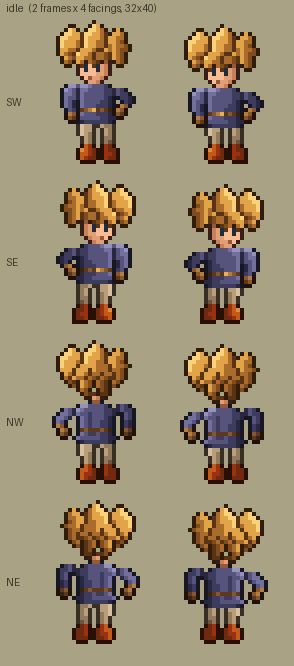
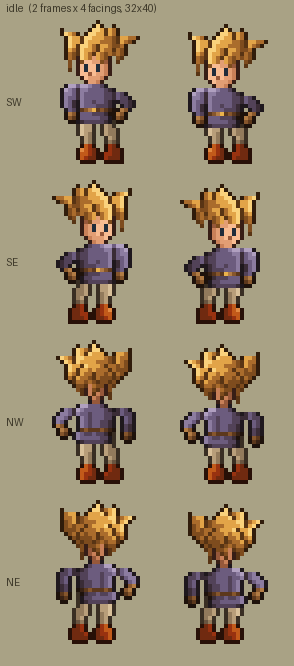
Adopt competition winner: spike-cluster hair, contrapposto, warm tunic ramp
Blind judge picked the cluster-by-cluster rebuild (6/10 vs reference,
up from 5.5): 9 documented wedge clusters with varied tip angles,
structured back-of-head spikes with visible neck, 9-row face with
readable eyes, 1px shoulder drop and weight-leg stance, sepia-shadow
tunic ramp.

Claude-Session: https://claude.ai/code/session_016NrdnBjWDk4MeLoS3YwAx8

diff --git a/tools/sprites/composer.py b/tools/sprites/composer.py
@@ -93,50 +93,71 @@ DEFAULT_SPEC = CharacterSpec()
 
 PARTS = {
     "front": {
+        # FRONT HAIR -- 9 explicit wedge clusters (frame coords, col = x-6):
+        #   C1 crown spike   base (13-17,4)  tip (16,0)   vertical, leans right
+        #   C2 left spike    base ( 9-11,5)  tip ( 7,2)   45 deg up-left
+        #   C3 right low     base (20-22,5)  tip (25,4)   near-horizontal right
+        #   C4 right small   base (18-19,3)  tip (20,1)   short jab upward
+        #   C5 fringe L      base y6         tip (12,10)  points down over brow
+        #   C6 fringe M      base y6         tip (15, 9)  shortest notch
+        #   C7 fringe R      base y6         tip (17,10)  sweeps to temple x19
+        #   C8 side lock L   (9-10, 6)       tip ( 9,12)  LONG lock by the ear
+        #   C9 side lock R   (20-21,6)       tip (20,10)  short -- unequal to C8
+        # Silhouette tips land at y0/y1/y2/y4: four different heights, one
+        # spike on the left vs two on the right = deliberate asymmetry.
+        # Each wedge: 8 highlight upper-left face, 7/6 body, 5 shade,
+        # '4' seam only along cluster boundaries (diagonal, staggered).
         "hair": {
             "anchor": (6, 0),
             "grid": [
-                ".........o.........",
-                "...oo...o87o.......",
-                "..o87o.o8876o.o7o..",
-                ".o88774887764o776o.",
-                "o8877748777647766o.",
-                "o87776487766477650.".replace("0", "o"),
-                "o877764877664676650".replace("0", "o"),
-                "o77664777644767655o",
-                "o7654877646654765o.",
-                ".o765776646654765o.",
-                ".o65o76o654o..o65o.",
-                "..oo..4..4.....oo..",
+                "..........o..........",  # y0  C1 tip
+                ".........o8o..o......",  # y1  C1 neck; C4 tip
+                ".o......o887476o.....",  # y2  C2 tip; C1 body; C4 wedge
+                ".o876o.o8877476o.....",  # y3  C2 wedge / gap / C1+C4
+                "..o87748877766547766o",  # y4  C2 base; crown; C3 spike->tip
+                "..o8774877766654765o.",  # y5  crown full; C3 base
+                "..o87488764776 56o...".replace(" ", "5"),  # y6 locks+fringe
+                "..o76487764766465o...",  # y7  fringe solid over brow
+                "..o65487647656565o...",  # y8  fringe solid, shade lower
+                "..o65.876.765..54....",  # y9  1px notch gaps open
+                "...5..5....5...4.....",  # y10 C5/C7/C9 tips touch brow
+                "...5.................",  # y11 C8 continues alone
+                "...4.................",  # y12 C8 tip (longest lock)
             ],
         },
+        # Face: full-height FFT face -- hairline shadow row, two bright brow
+        # rows, then 2x2 dark eyes on bright 9-skin, two jaw rows to a chin.
         "head": {
-            "anchor": (11, 8),
+            "anchor": (11, 7),
             "grid": [
+                "o9999321o",
                 "o1111111o",
-                "o9933321o",
+                "o9993321o",
                 "o9993321o",
                 "o9x99x32o",
                 "o9x99x32o",
-                "o9999332o",
-                ".o91332o.",
+                "o9919332o",
+                ".o93332o.",
                 "..o332o..",
             ],
         },
+        # contrapposto: screen-left shoulder caps a row early (right sits
+        # 1px lower), and below the belt the hips swing 1px toward the
+        # screen-left weight leg
         "torso": {
             "anchor": (10, 15),
             "grid": [
                 "....o22o....",
-                ".occCBBBAo..",
-                "ocCCBBBBAAao",
+                ".occCBBAo...",
+                "ocCCBBBBAao.",
                 "oCCBBBBBAAao",
-                ".oCBBBBBAao.",
-                ".oCBBBBAAao.",
+                ".oCBBBBBAAo.",
+                ".oCBBABBAao.",
                 ".oCBBBAAAao.",
                 ".oSTULSTSso.",
-                ".oCBBBAAAao.",
-                "oCBBBBBAAaao",
-                ".oaAAAAAAao.",
+                "oCBBBAAAao..",
+                "oCBBBBBAAo..",
+                ".oaAAAAAao..",
             ],
         },
         # near arm: hangs relaxed, soft elbow bend, glove fist by the thigh.
@@ -156,9 +177,10 @@ PARTS = {
                 "..oo..",
             ],
         },
-        # far arm: akimbo, elbow out, fist planted on the hip
+        # far arm: akimbo, elbow out, fist planted on the hip (hangs off the
+        # lowered screen-right shoulder, hence 1 row below arm_near)
         "arm_far": {
-            "anchor": (20, 17),
+            "anchor": (20, 18),
             "grid": [
                 "aBAo..",
                 "aBAAo.",
@@ -188,70 +210,85 @@ PARTS = {
                 ".oooo.",
             ],
         },
+        # relaxed leg: knee tucks 1px inward, shin angles back out, foot
+        # planted a shade wider -- the counterpose to the straight near leg
         "leg_far": {
             "anchor": (16, 23),
             "grid": [
-                "oEEDo.",
-                "oEEDo.",
-                "oEDDo.",
-                "oEDDo.",
-                ".oEDo.",
-                ".oEDo.",
-                ".oDDo.",
-                ".oDdo.",
-                ".oHGo.",
-                ".oHGGo",
-                ".oHHGo",
-                ".oHGGo",
-                "..oooo",
+                "oEEDo..",
+                "oEDDo..",
+                ".oEDo..",
+                ".oEDo..",
+                ".oEDDo.",
+                ".oEDDo.",
+                "..oEDo.",
+                "..oDdo.",
+                "..oHGo.",
+                "..oHGGo",
+                ".oHHGGo",
+                ".oHGGGo",
+                "..ooooo",
             ],
         },
     },
     "back": {
-        # away-facing hair: flame-shaped mass of locks radiating from the
-        # crown, split by '4' seams, tapering to pointed lock tips at the
-        # nape. Crown highlight upper-left, core shadow at the neck.
+        # BACK HAIR -- same skull turned 180 deg, so the top silhouette is
+        # the front's mirrored (screen left/right swap) but RE-SHADED: light
+        # stays upper-left in screen space. Clusters (frame coords):
+        #   B1 crown spike   tip (15,0)   vertical (mirror of C1)
+        #   B2 right long    tip (24,2)   45 deg up-right (mirror of C2)
+        #   B3 left low      tip ( 6,4)   near-horizontal left (mirror of C3)
+        #   B4 left small    tip (11,1)   short jab (mirror of C4)
+        #   B5-B8 nape locks radiating from the crown whorl (15,4), split by
+        #   diagonal '4' seams, tapering to UNEQUAL pointed tips:
+        #   (10,11) (12,13) (15,12) (17,14) (19,12) (21,11) -- neck skin
+        #   shows in the notches between tips (head part behind).
         "hair": {
             "anchor": (6, 0),
             "grid": [
-                ".........o.........",
-                "...oo...o87o.......",
-                "..o87o.o8876o.o7o..",
-                ".o88774887764o776o.",
-                "o8877748777647766o.",
-                "o87776487766477650.".replace("0", "o"),
-                "o87774777766647665o",
-                "o7774777476664665o.",
-                ".o764776466466465o.",
-                ".o647664654654465o.",
-                "..o54o765o654o65o..",
-                "...o5o765o654o5o...",
-                ".....o65o.o54o.....",
-                "......o544o44o.....",
-                ".......oo...o......",
+                ".........o...........",  # y0  B1 tip
+                ".....o..o8o..........",  # y1  B4 tip; B1 neck
+                "....o876488o......o..",  # y2  B4 wedge; B1; B2 tip
+                "....o87487770.o776o..".replace("0", "o"),  # y3
+                "o87648877777654766o..",  # y4  B3 tip+wedge; crown; B2 base
+                ".o8748777766654765o..",  # y5  crown full
+                "..o877487776466565o..",  # y6  mass; seams radiate from crown
+                "..o874776766646555o..",  # y7  left seam drifts in, right out
+                "..o76476646656465o...",  # y8  seams keep drifting (no stripes)
+                "..o6476654655545o....",  # y9  narrowing
+                "...o46656545545o.....",  # y10
+                "....o554.655.54......",  # y11 tips split; skin gaps open
+                ".....54..54..5.......",  # y12 three nape locks stand
+                "......4..4...4.......",  # y13 tips at x12 x15 x19
+                ".............4.......",  # y14 lowest nape tip (x19)
             ],
         },
+        # nape + narrow neck; skin shows only in notches between lock tips
         "head": {
-            "anchor": (13, 13),
+            "anchor": (13, 11),
             "grid": [
-                ".o22o.",
-                ".o32o.",
+                "o2221o",
+                "o2221o",
+                "o2221o",
+                ".o21o.",
             ],
         },
+        # same contrapposto read from behind: screen-right shoulder 1px
+        # lower, hips swung 1px toward the screen-left weight leg
         "torso": {
             "anchor": (10, 15),
             "grid": [
                 "....o11o....",
-                ".occBBBBAo..",
-                "ocCBBBBBAAao",
+                ".occBBBAo...",
+                "ocCBBBBBAao.",
                 "oCBBABBBAAao",
-                ".oCBABBBAao.",
+                ".oCBABBBAAo.",
                 ".oCBABBAAao.",
                 ".oCBABBAAao.",
                 ".oSTSSSTSso.",
-                ".oCBAABAAao.",
-                "oCBBBBBAAaao",
-                ".oaAAAAAAao.",
+                "oCBAABAAao..",
+                "oCBBBBBAAo..",
+                ".oaAAAAAao..",
             ],
         },
         # back view: the akimbo arm is now on screen-left…
@@ -268,9 +305,9 @@ PARTS = {
                 "..oo..",
             ],
         },
-        # …and the hanging arm on screen-right
+        # …and the hanging arm on screen-right, off the lowered shoulder
         "arm_far": {
-            "anchor": (21, 16),
+            "anchor": (21, 17),
             "grid": [
                 "aBAo..",
                 "aBAAo.",
@@ -301,22 +338,23 @@ PARTS = {
                 ".oooo.",
             ],
         },
+        # relaxed leg from behind: same knee-in / calf-out counterpose
         "leg_far": {
             "anchor": (16, 23),
             "grid": [
-                "oEEDo.",
-                "oEEDo.",
-                "oEDDo.",
-                "oEDDo.",
-                ".oEDo.",
-                ".oEDo.",
-                ".oDDo.",
-                ".oDdo.",
-                ".oHGo.",
-                ".oHGGo",
-                ".oHGGo",
-                ".oGGGo",
-                "..ooo.",
+                "oEEDo..",
+                "oEDDo..",
+                ".oEDo..",
+                ".oEDo..",
+                ".oEDDo.",
+                ".oEDDo.",
+                "..oEDo.",
+                "..oDdo.",
+                "..oHGo.",
+                "..oHGGo",
+                ".oHGGGo",
+                ".oGGGGo",
+                "..oooo.",
             ],
         },
     },

diff --git a/tools/sprites/palette.py b/tools/sprites/palette.py
@@ -15,9 +15,10 @@ RAMPS = {
     "hair_gold":  [(88, 52, 20), (126, 76, 30), (170, 108, 44), (226, 164, 72), (250, 210, 124)],
     # chestnut brown hair (alt)
     "hair_brown": [(52, 32, 22), (88, 54, 34), (128, 82, 50), (170, 118, 72), (210, 162, 108)],
-    # warm slate-indigo cloth (ref pants shadow ~38,40,60 mid ~82,84,120 -
-    # red channel kept close to green so the blue reads warm, FFT-style)
-    "cloth_blue": [(42, 40, 64), (62, 60, 94), (86, 84, 124), (116, 112, 158), (150, 146, 190)],
+    # warm slate-indigo cloth, sepia-shifted shadows (FFT dyes its blues
+    # brown in shadow: dark steps have red >= green, only the light steps
+    # keep a clear blue identity, highlights drift toward warm lilac)
+    "cloth_blue": [(58, 44, 54), (82, 66, 88), (108, 92, 126), (140, 124, 160), (176, 160, 192)],
     # muted warm red cloth
     "cloth_red":  [(70, 28, 24), (112, 40, 30), (156, 58, 36), (198, 94, 54), (228, 142, 94)],
     # moss green cloth
